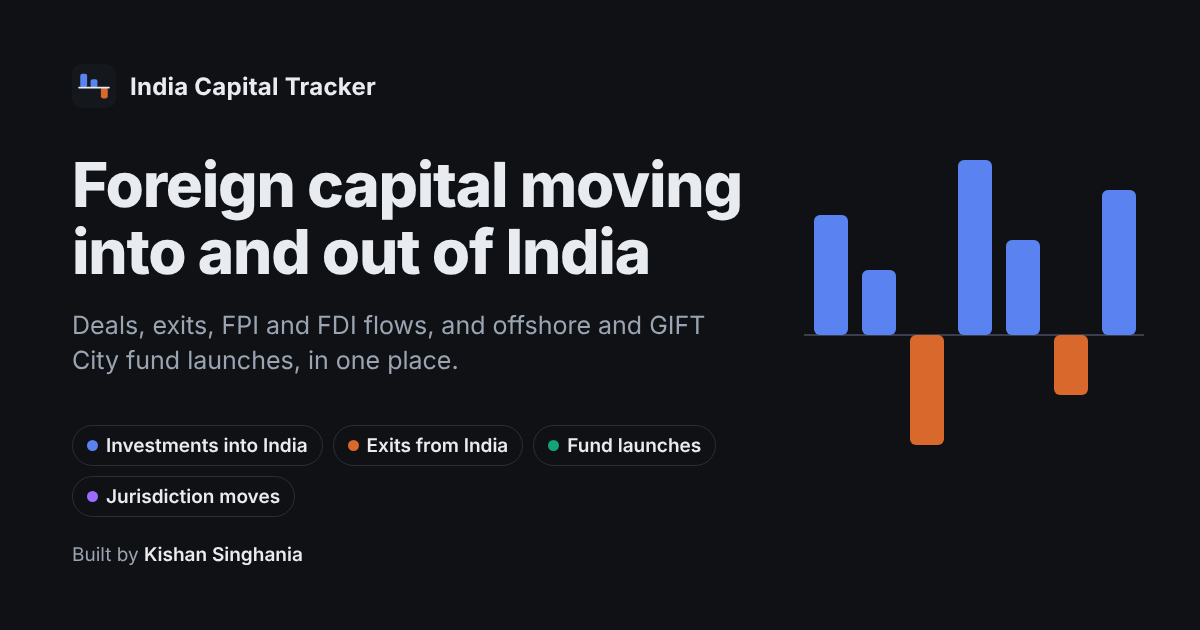
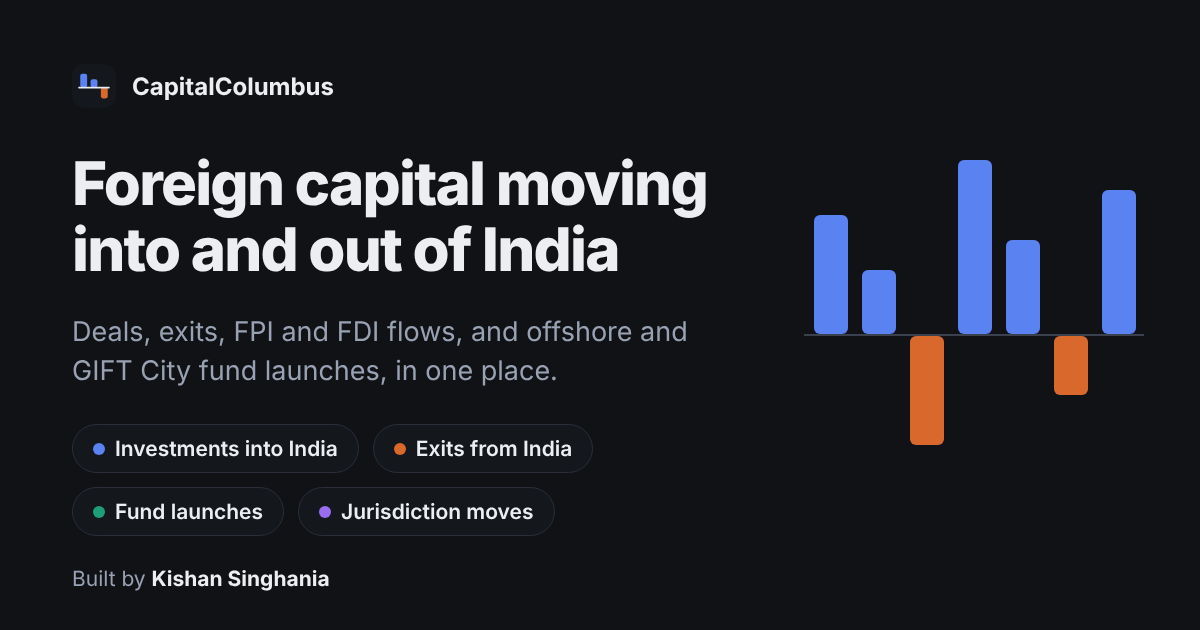
Rename the site to CapitalColumbus (titles, header, sign-in page, sharing image, docs)
Claude-Session: https://claude.ai/code/session_01RLmbgT1nL6itFzP4oEcQvm

diff --git a/site/index.html b/site/index.html
@@ -3,7 +3,7 @@
 <head>
 <meta charset="utf-8">
 <meta name="viewport" content="width=device-width,initial-scale=1,viewport-fit=cover">
-<title>India Capital Tracker</title>
+<title>CapitalColumbus: foreign capital into and out of India</title>
 <meta name="description" content="Track foreign capital moving into and out of India: investments, exits, FPI and FDI flows, and offshore and GIFT City fund launches, in one place.">
 <meta name="author" content="Kishan Singhania">
 <meta name="theme-color" content="#0f1115">
@@ -13,16 +13,16 @@
 <link rel="apple-touch-icon" href="/apple-touch-icon.png">
 <!-- Link previews on LinkedIn, WhatsApp, X and Slack -->
 <meta property="og:type" content="website">
-<meta property="og:site_name" content="India Capital Tracker">
-<meta property="og:title" content="India Capital Tracker: foreign capital into and out of India">
+<meta property="og:site_name" content="CapitalColumbus">
+<meta property="og:title" content="CapitalColumbus: foreign capital into and out of India">
 <meta property="og:description" content="Track foreign capital moving into and out of India: investments, exits, FPI and FDI flows, and offshore and GIFT City fund launches, in one place.">
 <meta property="og:url" content="https://india-capital-tracker.ironmanbro.workers.dev/">
 <meta property="og:image" content="https://india-capital-tracker.ironmanbro.workers.dev/og.png">
 <meta property="og:image:width" content="1200">
 <meta property="og:image:height" content="630">
-<meta property="og:image:alt" content="India Capital Tracker: foreign capital moving into and out of India. Built by Kishan Singhania.">
+<meta property="og:image:alt" content="CapitalColumbus: foreign capital moving into and out of India. Built by Kishan Singhania.">
 <meta name="twitter:card" content="summary_large_image">
-<meta name="twitter:title" content="India Capital Tracker: foreign capital into and out of India">
+<meta name="twitter:title" content="CapitalColumbus: foreign capital into and out of India">
 <meta name="twitter:description" content="Track foreign capital moving into and out of India: investments, exits, FPI and FDI flows, and offshore and GIFT City fund launches, in one place.">
 <meta name="twitter:image" content="https://india-capital-tracker.ironmanbro.workers.dev/og.png">
 <link rel="preconnect" href="https://fonts.googleapis.com">
@@ -719,7 +719,7 @@ body.anon .gnav button:not([data-g="home"])::after{content:"🔒";position:absol
 <div class="welcome" id="welcome" data-lenis-prevent role="dialog" aria-modal="true" aria-labelledby="welcome-title" hidden>
   <div class="box">
     <div class="eyebrow">Welcome</div>
-    <h2 id="welcome-title">India Capital Tracker</h2>
+    <h2 id="welcome-title">CapitalColumbus</h2>
     <p class="lead">A live feed of foreign money moving into and out of India: investments, exits, offshore fund launches, and funds changing jurisdiction.</p>
     <div class="who">
       <div class="avatar" aria-hidden="true">KS</div>
@@ -739,7 +739,7 @@ body.anon .gnav button:not([data-g="home"])::after{content:"🔒";position:absol
 <div class="wrap">
   <header>
     <div>
-      <div class="eyebrow">India Capital Tracker</div>
+      <div class="eyebrow" style="text-transform:none;letter-spacing:.04em;font-size:13px">CapitalColumbus</div>
       <h1 id="ptitle">Overview</h1>
       <div class="sub" id="psub">Foreign investments into India, exits from India, offshore fund launches, and jurisdiction moves</div>
       <div class="maker">Built by <a href="https://www.linkedin.com/in/kishansinghania/" target="_blank" rel="noopener"><strong>Kishan Singhania</strong></a> · <a href="https://www.linkedin.com/in/kishansinghania/" target="_blank" rel="noopener">Connect on LinkedIn →</a></div>
@@ -797,7 +797,7 @@ body.anon .gnav button:not([data-g="home"])::after{content:"🔒";position:absol
   <p class="note" style="margin:-8px 0 16px" id="kpi-note"></p>
 
   <nav class="tabs" role="tablist" aria-label="Sections">
-    <div class="logo" aria-hidden="true">ICT</div>
+    <div class="logo" aria-hidden="true">CC</div>
     <button role="tab" aria-selected="true" data-tab="overview"><svg viewBox="0 0 24 24" fill="none" stroke="currentColor" stroke-width="2" stroke-linecap="round" stroke-linejoin="round" aria-hidden="true"><path d="M3 10.5 12 3l9 7.5V20a1 1 0 0 1-1 1h-5v-6H9v6H4a1 1 0 0 1-1-1z"/></svg>Home</button>
     <button role="tab" aria-selected="false" data-tab="feed"><svg viewBox="0 0 24 24" fill="none" stroke="currentColor" stroke-width="2" stroke-linecap="round" stroke-linejoin="round" aria-hidden="true"><rect x="3" y="4" width="18" height="16" rx="3"/><path d="M7 9h10M7 13h10M7 17h6"/></svg>Feed</button>
     <button role="tab" aria-selected="false" data-tab="investors"><svg viewBox="0 0 24 24" fill="none" stroke="currentColor" stroke-width="2" stroke-linecap="round" stroke-linejoin="round" aria-hidden="true"><circle cx="9" cy="8" r="3.5"/><path d="M2.5 20c.8-3.5 3.4-5.5 6.5-5.5s5.7 2 6.5 5.5"/><path d="M16 4.5a3.5 3.5 0 0 1 0 7M21.5 20c-.5-2.5-2-4.2-4-5"/></svg>Investors</button>
@@ -3282,7 +3282,7 @@ function aPreview() {
 }
 function authPitch() {
   const n = (state.events || []).length;
-  return `<div><div class="a-kick">India Capital Tracker</div><h2>See where foreign money is moving in India.</h2>
+  return `<div><div class="a-kick">CapitalColumbus</div><h2>See where foreign money is moving in India.</h2>
     <p>Investments, exits, FPI flows and fund launches in one place${n ? `, with ${n.toLocaleString("en-IN")} stories tracked` : ""}. Sign in free to open everything.</p></div>
     <ul class="a-perks">${aPerkList()}</ul>${aPreview()}
     <div class="a-free"><b>Home stays free</b> for everyone: today's FPI flow, the biggest deals this week and the latest stories.</div>`;
@@ -3293,7 +3293,7 @@ function openAuth(screen = "signin", data = {}) {
   if (!box) {
     document.body.insertAdjacentHTML("beforeend", `<div class="auth" id="auth" role="dialog" aria-modal="true" aria-labelledby="auth-title" hidden>
       <button type="button" class="a-x" id="a-close">Continue to Home</button>
-      <div class="a-brand"><div class="a-logo"><i>ICT</i> India Capital Tracker</div><div id="a-pitch"></div></div>
+      <div class="a-brand"><div class="a-logo"><i>CC</i> CapitalColumbus</div><div id="a-pitch"></div></div>
       <div class="a-form"><div class="a-card" id="a-card"></div></div></div>`);
     box = $("auth");
     $("a-close").onclick = closeAuth;
@@ -3319,7 +3319,7 @@ function closeAuth() {
 }
 function authScreen(name, data = {}) {
   const card = $("a-card");
-  card.innerHTML = `<div class="a-logo a-mlogo"><i>ICT</i> India Capital Tracker</div>` + A_SCREENS[name](data);
+  card.innerHTML = `<div class="a-logo a-mlogo"><i>CC</i> CapitalColumbus</div>` + A_SCREENS[name](data);
   card.querySelectorAll("[data-as]").forEach((b) => b.onclick = () => { auth.notice = ""; authScreen(b.dataset.as, data); });
   card.querySelectorAll("[data-eye]").forEach((b) => b.onclick = () => { const i = b.parentElement.querySelector("input"), show = i.type === "password"; i.type = show ? "text" : "password"; b.textContent = show ? "Hide" : "Show"; b.setAttribute("aria-label", show ? "Hide password" : "Show password"); });
   const pw = $("a-pw"), meter = $("a-meter");

diff --git a/README.md b/README.md
@@ -1,4 +1,4 @@
-# India Capital Tracker
+# CapitalColumbus
 
 A live feed of foreign money moving into and out of India: investments, exits,
 offshore and GIFT City fund launches, and funds changing jurisdiction.

diff --git a/SECURITY_MAP.md b/SECURITY_MAP.md
@@ -1,4 +1,4 @@
-# Security map: India Capital Tracker
+# Security map: CapitalColumbus
 
 Written during the pre-launch security pass (toolkit checks 00 and 26). No secret values are recorded here.
 
